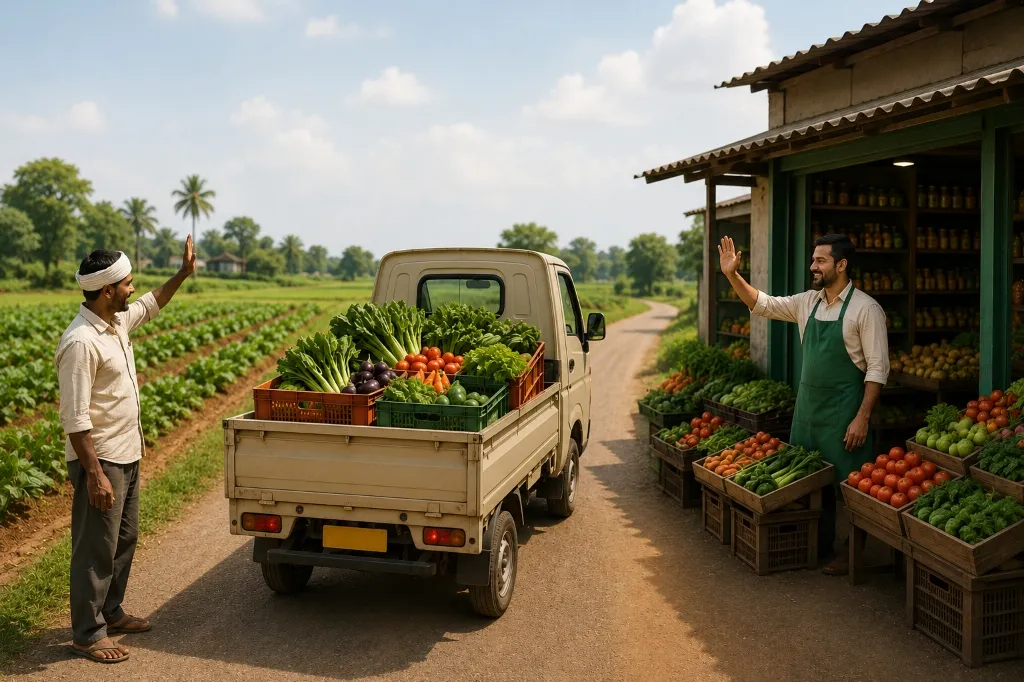
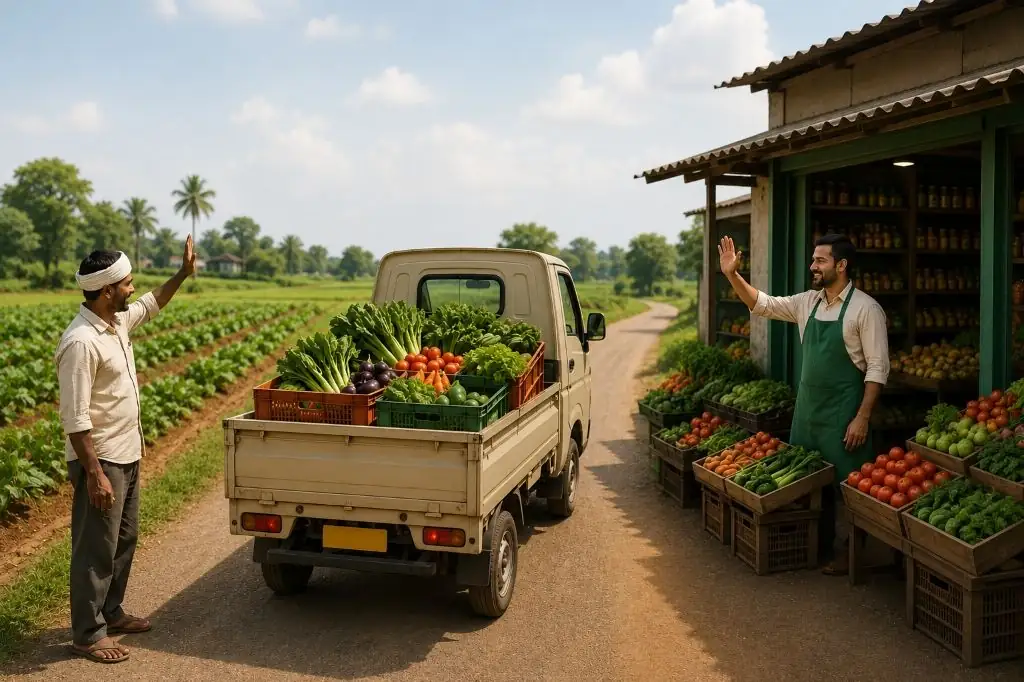
Instant 0ms Hero Image rendering: Inline Base64 preview + 33KB ultra-light Mobile WebP image + high-priority Preload

Changed region(s): [[0.4062, 0.5235, 0.4375, 0.585], [0.375, 0.4927, 0.4062, 0.5235]]

diff --git a/src/main/webapp/css/style.css b/src/main/webapp/css/style.css
@@ -1121,6 +1121,10 @@ tbody tr:hover td {
 
     /* ---- Hero Section ---- */
     .hero-fullscreen {
+        background-image: image-set(
+            url('../images/hero-banner-mobile.webp') type('image/webp'),
+            url('../images/hero-banner.jpg') type('image/jpeg')
+        ) !important;
         margin-top: 0 !important;
         padding: 64px 16px 20px 16px !important;
         height: 100vh !important;
